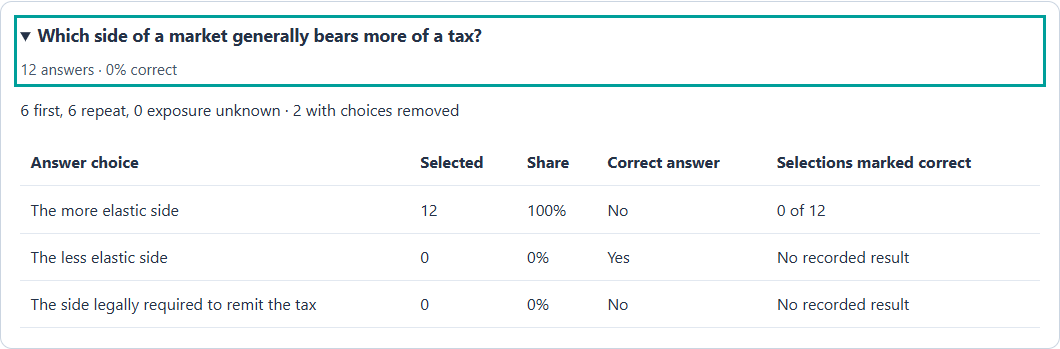
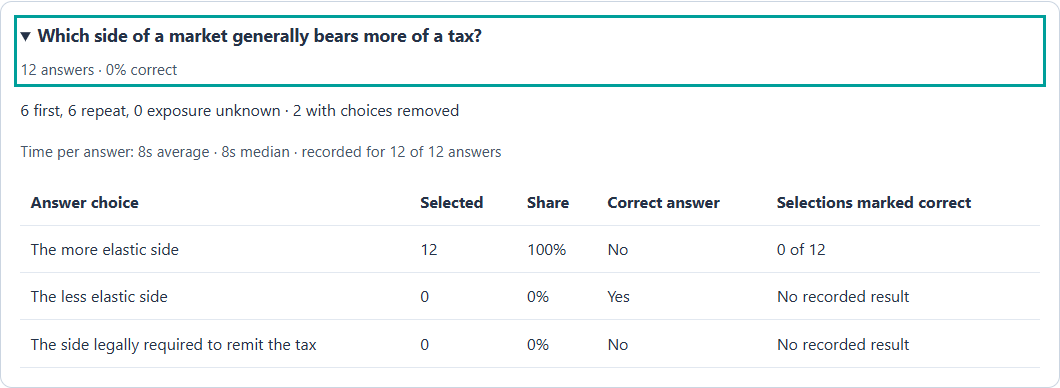
Updated the answer generator.

diff --git a/tools/answer-analysis/analysis.js b/tools/answer-analysis/analysis.js
@@ -33,6 +33,7 @@
   const matches=(c,f)=>['exposure','assistance','mode'].every(k=>!f[k]||f[k]==='all'||f[k]===c[k]);
   const numeric=value=>value!==null&&value!==undefined&&value!==''&&typeof value!=='boolean'&&Number.isFinite(Number(value))&&Number(value)>=0?Number(value):null;
   const median=values=>{const sorted=[...values].sort((a,b)=>a-b),mid=Math.floor(sorted.length/2);return sorted.length?(sorted.length%2?sorted[mid]:(sorted[mid-1]+sorted[mid])/2):null;};
+  const timing=values=>({averageResponseTimeMs:values.length?values.reduce((a,b)=>a+b,0)/values.length:null,medianResponseTimeMs:median(values),timedResponses:values.length});
   const runAlias=r=>JSON.stringify([r.game_id||r.game||('unknown-file-'+(r.__sourceFile||'unidentified')),r.runID||r.run_id]);
   function runContext(rows,runs,aliases){
     const observed=new Map();
@@ -71,7 +72,7 @@
       metadata.set(key,m);
     }
     const groups=new Map(),seen=new Set(),runs=new Set(),runAliases=new Map(),topics=new Map(),objectives=new Map(),files=new Set(),games=new Set();
-    const overview={correct:0,knownCorrectness:0,unknownRunAnswers:0};
+    const overview={correct:0,knownCorrectness:0,unknownRunAnswers:0},responseTimes=[];
     const stats={accepted:0,included:0,unresolved:0,duplicates:0,rapidGuesses:0,drafts:0,unverifiableIDs:0,missingObjectives:0,keyConflicts:0,objectiveConflicts:0};
     function aggregate(map,key,fields,r,run){
       if(!map.has(key))map.set(key,{...fields,count:0,correct:0,knownCorrectness:0,runs:new Set(),labels:new Set()});
@@ -104,9 +105,13 @@
         if(m.objectives.size>1)stats.objectiveConflicts++;
         groups.set(key,{revision:s.questionRevision,questionID:s.questionID,gameID,prompt:s.prompt,optionOrder:s.optionOrder,keyStatus,correctOptionIndices,
           options:s.options.map((text,i)=>({text,count:0,correct:0,knownCorrectness:0,isCorrect:correctOptionIndices?correctOptionIndices.includes(i):null})),count:0,correct:0,knownCorrectness:0,
-          first:0,repeat:0,unknown:0,assisted:0,unassisted:0,unknownAssistance:0,games:new Set(),modes:new Set(),runs:new Set()});
+          first:0,repeat:0,unknown:0,assisted:0,unassisted:0,unknownAssistance:0,games:new Set(),modes:new Set(),runs:new Set(),responseTimes:[]});
       }
       const g=groups.get(key);g.count++;g[c.exposure]++;g[c.assistance==='unknown'?'unknownAssistance':c.assistance]++;g.games.add(game);g.modes.add(c.mode);
+      // Use each retained answer's interval, never divide whole-run clocks by answer counts.
+      // Older exports use zero as an unmeasured default. Keep those out of timing averages.
+      const responseTime=numeric(r.responseTimeMs??r.response_time_ms);
+      if(responseTime>0){responseTimes.push(responseTime);g.responseTimes.push(responseTime);}
       const runKey=run?JSON.stringify([gameID,run]):null;if(runKey){runs.add(runKey);g.runs.add(runKey);}else overview.unknownRunAnswers++;
       if(runKey){const alias=runAlias(r);if(!runAliases.has(alias))runAliases.set(alias,new Set());runAliases.get(alias).add(runKey);}
       const topic=String(r.tag||'Topic unavailable');aggregate(topics,JSON.stringify([gameID,topic]),{game,gameID,topic},r,runKey);
@@ -118,13 +123,14 @@
     }
     const rollup=map=>[...map.values()].map(({runs,labels,...a})=>({...a,runCount:runs.size,labels:[...labels],labelConflict:labels.size>1}));
     const objectiveResults=rollup(objectives);
-    return {stats,filters:{...filters},overview:{...overview,...runContext(prepared,runs,runAliases),runs:runs.size,questions:groups.size,files:files.size,games:[...games]},topics:rollup(topics),objectives:objectiveResults,
-      groups:[...groups.values()].map(({runs,...g})=>({...g,runCount:runs.size,games:[...g.games],modes:[...g.modes]}))};
+    return {stats,filters:{...filters},overview:{...overview,...timing(responseTimes),...runContext(prepared,runs,runAliases),runs:runs.size,questions:groups.size,files:files.size,games:[...games]},topics:rollup(topics),objectives:objectiveResults,
+      groups:[...groups.values()].map(({runs,responseTimes,...g})=>({...g,...timing(responseTimes),runCount:runs.size,games:[...g.games],modes:[...g.modes]}))};
   }
   const plural=(n,one,many=one+'s')=>`${n} ${n===1?one:many}`;
   function duration(ms){if(ms===null||ms===undefined)return 'Not recorded';const seconds=Math.round(ms/1000),hours=Math.floor(seconds/3600),minutes=Math.floor(seconds%3600/60);return [hours?hours+'h':'',minutes?minutes+'m':'',seconds%60||!seconds?(seconds%60)+'s':''].filter(Boolean).join(' ');}
+  function responseDuration(ms){return ms==null?'Not recorded':ms<100?'less than 0.1s':ms<60000?`${Number((ms/1000).toFixed(1))}s`:duration(ms);}
   const reviewMinimum=value=>Math.max(1,Math.floor(Number(value)||5));
-  function runContextText(o){return `Whole-run context for the runs represented above: recorded run time ${duration(o.recordedTimeMs)}; median run time ${duration(o.medianRunTimeMs)}; longest recorded correct-answer streak ${o.bestStreak===null?'not recorded':o.bestStreak}. Time is available for ${o.timedRuns} of ${o.runs} runs; streaks for ${o.streakRuns} of ${o.runs}. These are the games’ recorded clocks and streaks across each retained run, including responses outside the answer filters. Incomplete exports may understate them, and clocks may include idle time.`;}
+  function runContextText(o){return `Whole-run context: recorded run time ${duration(o.recordedTimeMs)}; median run time ${duration(o.medianRunTimeMs)}; longest recorded correct-answer streak ${o.bestStreak===null?'not recorded':o.bestStreak}. Time recorded for ${o.timedRuns}/${o.runs} runs; streaks for ${o.streakRuns}/${o.runs}. Includes answers outside the filters; incomplete exports may understate these values.`;}
   function objectiveLabel(group){
     const clean=value=>String(value||'').replace(/^LO\s*\d+(?:\.\d+)*(?:\s*[—–:_-]\s*|\s+|$)/i,'').replaceAll('_',' ').trim();
     const labels=[...new Set((group.labels||[]).map(clean).filter(Boolean))];
@@ -137,10 +143,8 @@
     const o=result.overview,s=result.stats,f=result.filters;
     const filters={exposure:{all:'all attempts',first:'first recorded exposures',repeat:'repeat exposures',unknown:'exposure unknown'},assistance:{all:'all responses regardless of choice removal',assisted:'one or more choices removed',unassisted:'no choices removed',unknown:'choice removal not recorded'}};
     const lines=[`Class Practice Summary${o.games.length?' — '+o.games.join(', '):''}`,
-      `${plural(fileCount,'file')} loaded; ${plural(o.files,'file')} represented in the selected results. ${plural(o.runs,'game run')} represented ${plural(s.included,'accepted response')}. Overall accuracy: ${accuracy(o)} (${o.correct} of ${o.knownCorrectness} responses with a recorded result).`,
-      `Filters: ${filters.exposure[f.exposure||'all']||'all attempts'}; ${filters.assistance[f.assistance||'all']||'all responses regardless of choice removal'}; mode ${f.mode&&f.mode!=='all'?f.mode:'all modes'}.`];
+      `Overall accuracy: ${accuracy(o)} (${o.correct} of ${o.knownCorrectness} responses with a recorded result). ${plural(o.runs,'game run')} represented ${plural(s.included,'accepted response')} across ${plural(o.questions,'question version')}.`];
     const min=reviewMinimum(minResponses);
-    lines.push(`Review minimum: ${plural(min,'response')} with a recorded result per topic, objective, or question.`,runContextText(o));
     const source=grouping==='objectives'?result.objectives.filter(a=>a.objective&&!a.labelConflict):result.topics.filter(a=>a.topic!=='Topic unavailable');
     const eligible=source.filter(a=>a.knownCorrectness>=min).sort((a,b)=>a.correct/a.knownCorrectness-b.correct/b.knownCorrectness||b.runCount-a.runCount);
     const label=a=>(o.games.length>1?a.game+' — ':'')+(grouping==='objectives'?objectiveLabel(a):a.topic.replaceAll('_',' '));
@@ -148,17 +152,30 @@
     if(s.keyConflicts||s.objectiveConflicts)lines.push('Conflicting answer-key or objective information needs review. Comparative conclusions are withheld until those records are checked.');
     else if(eligible.length){
       const low=eligible[0],high=eligible.at(-1);
-      if(eligible.length>1&&low.correct/low.knownCorrectness<high.correct/high.knownCorrectness){lines.push(`Lower observed accuracy: ${describe(low)}.`,`Higher observed accuracy: ${describe(high)}.`);}
-      else lines.push(`Results meeting the review minimum: ${eligible.map(describe).join('; ')}. There is no stronger-versus-weaker comparison in this selection.`);
-      if(eligible.some(a=>!sufficient(a)))lines.push('Limited evidence: some results have fewer than five responses or come from fewer than two identified runs. Treat these observations as starting points for discussion.');
+      if(eligible.length>1&&low.correct/low.knownCorrectness<high.correct/high.knownCorrectness){lines.push(`Start the review with ${describe(low)}.`,`Stronger results in this selection: ${describe(high)}.`);}
+      else lines.push(`Results meeting the review minimum: ${eligible.slice(0,3).map(describe).join('; ')}.${eligible.length>3?' See the report for the other results.':''}`);
+      if(eligible.some(a=>!sufficient(a)))lines.push('Limited evidence: results below five responses or two identified runs are starting points for discussion.');
     }else lines.push(`There is too little evidence for a comparison at the selected minimum of ${plural(min,'response')}. No available ${grouping==='objectives'?'learning objectives':'topics'} meet that minimum.`);
-    const review=reviewQuestions(result,min).slice(0,3);
-    if(!s.keyConflicts&&!s.objectiveConflicts&&review.length)lines.push('Questions for instructor review:\n'+review.map(q=>`- ${q.prompt} — ${accuracy(q)} (${q.correct}/${q.knownCorrectness}; ${plural(q.runCount,'run')}${sufficient(q)?'':'; limited evidence'}).`).join('\n'));
+    const review=reviewQuestions(result,min).slice(0,2);
+    if(!s.keyConflicts&&!s.objectiveConflicts){
+      if(review.length){
+        lines.push('Questions to discuss:\n'+review.map(q=>{
+          const wrong=q.options.filter(o=>o.knownCorrectness>o.correct),max=Math.max(...wrong.map(o=>o.knownCorrectness-o.correct)),common=wrong.filter(o=>o.knownCorrectness-o.correct===max);
+          const choice=common.length===1?` Most common choice marked incorrect: “${common[0].text}” (${plural(max,'response')}).`:` ${plural(common.length,'incorrect choice')} tied at ${plural(max,'response')} each; see the choice counts.`;
+          return `- ${q.prompt} — ${accuracy(q)} (${q.correct}/${q.knownCorrectness}; ${plural(q.runCount,'run')}${sufficient(q)?'':'; limited evidence'}).${choice}`;
+        }).join('\n'));
+        lines.push('Suggested next step: ask the class to explain the reasoning behind these choices, work through an example, then check understanding with a fresh question.');
+      }else if(o.knownCorrectness&&o.correct===o.knownCorrectness)lines.push('All shown answers with a recorded result were correct. A fresh question or application can help check whether that understanding carries over.');
+      else if(s.included)lines.push('No question with an incorrect answer meets the selected review minimum. Add more results or lower the minimum to choose specific questions for discussion.');
+    }
+    lines.push(o.timedResponses?`Time per answered question: ${responseDuration(o.averageResponseTimeMs)} average; ${responseDuration(o.medianResponseTimeMs)} median (middle value), based on ${o.timedResponses} of ${plural(s.included,'shown answer')}.`:'Time per answered question: not recorded in the shown answers.');
+    lines.push(runContextText(o));
+    lines.push(`Selection: ${plural(fileCount,'file')} loaded; ${plural(o.files,'file')} represented. ${filters.exposure[f.exposure||'all']||'all attempts'}; ${filters.assistance[f.assistance||'all']||'all responses regardless of choice removal'}; mode ${f.mode&&f.mode!=='all'?f.mode:'all modes'}. Review minimum: ${plural(min,'response')} with a recorded result per topic, objective, or question.`);
     if(s.unresolved)lines.push(`${plural(s.unresolved,'accepted response')} lacked usable saved question details; this analysis excludes those records.`);
     if(s.missingObjectives)lines.push(`${plural(s.missingObjectives,'shown response')} had no learning objective.`);
     if(result.objectives.some(a=>a.labelConflict))lines.push('Some learning-objective descriptions conflict. Their original labels remain in the report; those objectives are excluded from feedback comparisons.');
     if(s.unverifiableIDs)lines.push(`${plural(s.unverifiableIDs,'response')} had no reliable answer identifier; overlapping exports may include repeats that cannot be verified.`);
-    lines.push('Adaptive games may present different questions to different students. Game runs can include repeated practice by the same student. Review the response counts and examples before deciding what to revisit in class. Selected answers suggest questions to discuss; they do not establish a specific misconception.');
+    lines.push('Runs may include repeated practice by the same student and different questions. Recorded times may include idle time. Answer choices can guide discussion; they do not establish a specific misconception.');
     return lines.join('\n\n');
   }
 
@@ -177,5 +194,5 @@
       rows(){return [...files.values()].flatMap(file=>file.rows);}
     };
   }
-  const api={parseCSV,analyze,createCollection,normalizeRow,plural,duration,runContextText,reviewMinimum,objectiveLabel,accuracy,sufficient,reviewQuestions,feedbackSummary};if(typeof module==='object'&&module.exports)module.exports=api;else root.MQAnswerAnalysis=api;
+  const api={parseCSV,analyze,createCollection,normalizeRow,plural,duration,responseDuration,runContextText,reviewMinimum,objectiveLabel,accuracy,sufficient,reviewQuestions,feedbackSummary};if(typeof module==='object'&&module.exports)module.exports=api;else root.MQAnswerAnalysis=api;
 })(globalThis);

diff --git a/tools/answer-analysis/report.js b/tools/answer-analysis/report.js
@@ -23,12 +23,12 @@ function renderOverview(){
   container.append(el('p',`${o.correct} correct out of ${plural(o.knownCorrectness,'answer')} with a recorded result. Accuracy combines all shown answers. Game runs may include several attempts by the same student. Questions covered counts each saved question version once.`,'meta'));
   if(o.unknownRunAnswers)container.append(el('p',`${plural(o.unknownRunAnswers,'shown answer')} ${o.unknownRunAnswers===1?'has':'have'} no run ID.`,'meta'));
   if(!summary.groups.length)return;
-  container.append(el('h3','Run time and streaks'));
+  container.append(el('h3','Time and streaks'));
   const runMetrics=el('div','','metrics run-metrics');
-  for(const [label,value] of [['Recorded run time',MQAnswerAnalysis.duration(o.recordedTimeMs)],['Median run time',MQAnswerAnalysis.duration(o.medianRunTimeMs)],['Longest correct-answer streak',o.bestStreak??'Not recorded']]){
+  for(const [label,value] of [['Average time per question',MQAnswerAnalysis.responseDuration(o.averageResponseTimeMs)],['Recorded run time',MQAnswerAnalysis.duration(o.recordedTimeMs)],['Longest correct-answer streak',o.bestStreak??'Not recorded']]){
     const metric=el('div','','metric');metric.append(el('strong',String(value)),el('span',label));runMetrics.append(metric);
   }
-  container.append(runMetrics,el('p',`Time recorded for ${o.timedRuns} of ${o.runs} runs; streaks for ${o.streakRuns} of ${o.runs}. These stats cover the whole runs represented by your filters, including answers outside the selection. Each run counts once. Incomplete exports may understate time and streaks; recorded clocks may include idle time. Median means the middle run time.`,'meta'));
+  container.append(runMetrics,el('p',`Question timing: ${o.timedResponses} of ${plural(summary.stats.included,'shown answer')} have a recorded time. Median (middle value): ${MQAnswerAnalysis.responseDuration(o.medianResponseTimeMs)}. Each answered attempt counts once. Times may include idle time.`,'meta'),el('p',`Whole runs: time recorded for ${o.timedRuns} of ${o.runs}; streaks for ${o.streakRuns} of ${o.runs}. Median run time: ${MQAnswerAnalysis.duration(o.medianRunTimeMs)}. Includes answers outside your filters. Incomplete exports may understate time and streaks.`,'meta'));
   const objectiveView=byId('grouping').value==='objectives';
   const topics=[...(objectiveView?summary.objectives:summary.topics)].sort((a,b)=>(a.knownCorrectness?a.correct/a.knownCorrectness:2)-(b.knownCorrectness?b.correct/b.knownCorrectness:2)||b.count-a.count);
   const multipleGames=new Set(topics.map(t=>t.game)).size>1;
@@ -64,6 +64,7 @@ function refresh(){
     const card=el('details','','question'),heading=el('summary','');
     heading.append(el('h3',g.prompt),el('p',`${plural(g.count,'answer')} · ${percent(g.correct,g.knownCorrectness)} correct`,'meta'));card.append(heading);
     card.append(el('p',`${g.first} first, ${g.repeat} repeat, ${g.unknown} exposure unknown · ${g.assisted} with choices removed`));
+    card.append(el('p',g.timedResponses?`Time per answer: ${MQAnswerAnalysis.responseDuration(g.averageResponseTimeMs)} average · ${MQAnswerAnalysis.responseDuration(g.medianResponseTimeMs)} median · recorded for ${g.timedResponses} of ${g.count} answers`:'Time per answer: not recorded','meta'));
     if(g.optionOrder==='displayed')card.append(el('p','Original answer order was unavailable. These choices are grouped by the order shown.','meta'));
     if(g.keyStatus!=='known')card.append(el('p',g.keyStatus==='conflict'?'Data integrity problem: conflicting answer-key or grading information.':'Correct answer unavailable',g.keyStatus==='conflict'?'integrity-note':'meta'));
     const wrap=el('div','','table-wrap'),table=el('table',''),head=el('thead',''),tr=el('tr','');
@@ -127,12 +128,12 @@ byId('download').addEventListener('click',()=>{
 });
 byId('download-summary').addEventListener('click',()=>{
   const filters=[byId('exposure').value,byId('assistance').value,byId('mode').value];
-  const rows=[['section','game','topicOrQuestion','questionID','questionRevision','answers','correct','knownCorrectness','accuracy','gameRuns','files','exposureFilter','assistanceFilter','modeFilter','objectiveID','keyStatus','recordedRunTimeMs','medianRunTimeMs','runsWithRecordedTime','longestRecordedStreak','runsWithRecordedStreak','reviewMinimumResponses']];
+  const rows=[['section','game','topicOrQuestion','questionID','questionRevision','answers','correct','knownCorrectness','accuracy','gameRuns','files','exposureFilter','assistanceFilter','modeFilter','objectiveID','keyStatus','recordedRunTimeMs','medianRunTimeMs','runsWithRecordedTime','longestRecordedStreak','runsWithRecordedStreak','reviewMinimumResponses','averageResponseTimeMs','medianResponseTimeMs','responsesWithRecordedTime']];
   const o=summary.overview;
-  rows.push(['class','','','','',summary.stats.included,o.correct,o.knownCorrectness,o.knownCorrectness?o.correct/o.knownCorrectness:'',o.runs,o.files,...filters,'','',o.recordedTimeMs??'',o.medianRunTimeMs??'',o.timedRuns,o.bestStreak??'',o.streakRuns,byId('minimum').value]);
+  rows.push(['class','','','','',summary.stats.included,o.correct,o.knownCorrectness,o.knownCorrectness?o.correct/o.knownCorrectness:'',o.runs,o.files,...filters,'','',o.recordedTimeMs??'',o.medianRunTimeMs??'',o.timedRuns,o.bestStreak??'',o.streakRuns,byId('minimum').value,o.averageResponseTimeMs??'',o.medianResponseTimeMs??'',o.timedResponses]);
   for(const t of summary.topics)rows.push(['topic',t.game,t.topic,'','',t.count,t.correct,t.knownCorrectness,t.knownCorrectness?t.correct/t.knownCorrectness:'',t.runCount,'',...filters,'','']);
   for(const t of summary.objectives)rows.push(['objective',t.game,MQAnswerAnalysis.objectiveLabel(t),'','',t.count,t.correct,t.knownCorrectness,t.knownCorrectness?t.correct/t.knownCorrectness:'',t.runCount,'',...filters,t.objective,'']);
-  for(const g of summary.groups)rows.push(['question',g.games.join(', '),g.prompt,g.questionID,g.revision,g.count,g.correct,g.knownCorrectness,g.knownCorrectness?g.correct/g.knownCorrectness:'',g.runCount,'',...filters,'',g.keyStatus]);
+  for(const g of summary.groups)rows.push(['question',g.games.join(', '),g.prompt,g.questionID,g.revision,g.count,g.correct,g.knownCorrectness,g.knownCorrectness?g.correct/g.knownCorrectness:'',g.runCount,'',...filters,'',g.keyStatus,'','','','','','',g.averageResponseTimeMs??'',g.medianResponseTimeMs??'',g.timedResponses]);
   for(const row of rows)while(row.length<rows[0].length)row.push('');
   downloadCSV(rows,'mastery-quests-class-summary.csv');
 });

diff --git a/tools/answer-analysis/index.html b/tools/answer-analysis/index.html
@@ -16,6 +16,7 @@
 <label>Minimum responses for review <select id="minimum"><option value="5">5 responses</option><option value="10">10 responses</option><option value="20">20 responses</option><option value="1">1 response (limited evidence)</option></select></label></div>
 <p id="choice-removal-help" class="meta">Some game powers and modes remove incorrect choices. Use Answer choices removed to compare those responses. Outside help is not recorded.</p>
 <details class="report-notes"><summary>How to read this report</summary><p>Results cover the questions in these files. Different runs can contain different questions. Revised questions appear separately. Older files without saved question details are counted as unavailable.</p><p>First exposure means no earlier answer or rapid guess was retained for that question in the run. Short or incomplete records may miss earlier attempts.</p><p>Answers with matching attempt identifiers are counted once across overlapping files. Repeated attempts remain counted. Files without reliable identifiers carry a warning because their overlap cannot be verified. Rapid guesses and unfinished exam selections are excluded from accuracy.</p><p>Run time and streaks describe the whole runs represented in the filtered answers. The report takes the highest recorded clock and streak for each run, then totals the times and finds the median time. Missing values stay unavailable. These clocks may include idle time and do not measure attention. Runs may belong to the same student.</p></details>
+<details class="report-notes"><summary>About question timing</summary><p>Average time per question uses the recorded response time for each shown answer. Filters apply, and matching answer identifiers count once. Rapid guesses, unfinished exam selections, and missing or zero times are excluded. The median is the middle response time, which helps put unusually long pauses in perspective. Timing coverage shows how many answers have a usable time. Recorded times can include pauses and may differ in older game versions.</p></details>
 <p id="review-note" class="meta">The selected minimum applies to Questions to Review and the copied summary. All responses remain in the totals. Small samples are marked as limited evidence.</p>
 <button id="copy-summary" disabled>Copy Class Summary</button><button id="download-summary" disabled>Download class summary</button><button id="download" disabled>Download choice counts</button><button id="clear">Clear files</button>
 <p id="copy-status" role="status" aria-live="polite"></p><div id="summary-editor" hidden><label for="summary-text">Class feedback summary — review and edit before sharing</label><textarea id="summary-text" rows="12"></textarea></div>

diff --git a/TELEMETRY_CONTRACT.md b/TELEMETRY_CONTRACT.md
@@ -22,6 +22,8 @@ Snapshots form an immutable question-version catalog within the export: repeated
 
 `/tools/answer-analysis/` reads local and admin CSVs in the browser without uploading them. It groups question revisions, counts selected options, deduplicates shared attempt/event IDs, excludes drafts and rapid guesses from accepted totals, and filters retained first/repeat exposure and recorded choice removal. Repeated answers with distinct attempt IDs remain counted. Rows without reliable IDs remain visible with a deduplication warning. Game runs may belong to the same learner. Copyable summaries and Questions to Review use the same selected minimum of known-result responses, including one when selected. Results below five responses or two identified runs carry limited-evidence labels. Whole-run context includes the sum and median of the highest recorded duration per represented run, plus the highest recorded correct-answer streak. Overlapping exports count once per run; answer filters select the represented runs while context retains their full recorded clocks and streaks. Missing measurements remain unavailable; clocks may include idle time and partial exports may understate totals. They are deterministic browser calculations with no external API. Legacy files remain visible as unresolved content. An authored wrong option is evidence for instructor review, not a diagnosis of a misconception.
 
+Question timing uses positive, finite `responseTimeMs` (local) or `response_time_ms` (admin) intervals from the included, deduplicated accepted answers. Each answer has equal weight; whole-run time is never divided by answer counts. Zero defaults, missing values and invalid durations are excluded, with timing coverage shown alongside the average and median. Class and question timing are included in the class-summary CSV. These recorded intervals can include pauses and can differ in older game versions; they are not active-attention measurements. The deterministic feedback summary leads with review priorities, stronger observed results, and up to two questions with their most common choices marked incorrect (ties are reported). Suggested discussion and follow-up practice are based on those observations; integrity conflicts withhold those suggestions.
+
 Regeneration: run the normal contract generator, `audit_tools/answer_analysis/sync.mjs`, Managerial behavior sync, Composer activation-source and transport generation, then the Economic Realm and Macro engine syncs. Manual downloads use the same measurement implementation. The Micro engine does not measure active/hidden response time; its schema explicitly leaves those measurements unavailable. Deploy the compatible Worker before opt-in clients that send snapshots. Older distributed games and historical CSVs are not changed automatically.
 
 ## Compatibility changelog
